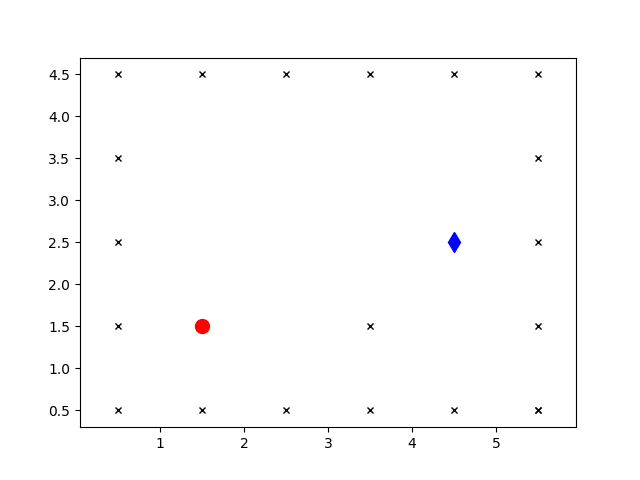
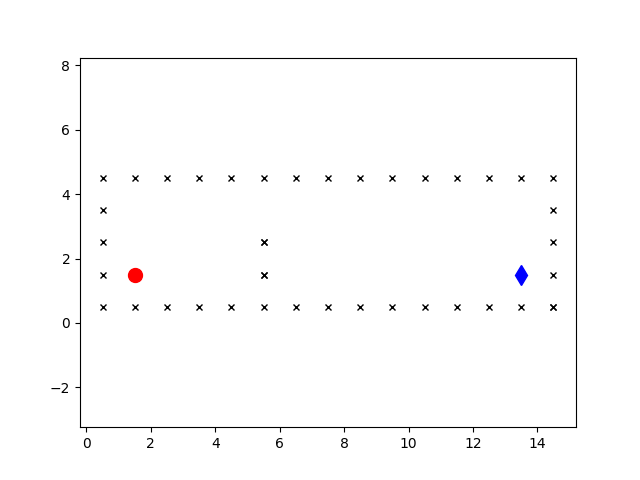
Works very well now. Key factors are the new one-hot input feature and Adam optimizer

diff --git a/main.py b/main.py
@@ -1,18 +1,18 @@
-import numpy as npA
+import numpy as npAAA
 import tensorflow as tf
 from matplotlib import pyplot as plt
 from IPython import embed
 from maze import *
 
 
-n_hidden = 40
-n_episodes = 5000
+n_hidden = 100
+n_episodes = 10000
 e0 = 0.2
 gamma= 0.99
 lr = 0.000001
 
 
-width=6
+width=15
 height = 5
 
 maze = Maze(height=height,
@@ -28,47 +28,51 @@ fig.savefig('fig_maze')
 
 
 # Neural Network
-pos = tf.placeholder(shape=[None,2,1,1],dtype=tf.float32)
+pos = tf.placeholder(shape=[None,width+height],dtype=tf.float32)
 
 # layer = tf.contrib.layers.fully_connected(inputs=pos,
 #                                           num_outputs=30)
-conv_layer = tf.contrib.layers.conv2d(inputs=pos,
-                                      kernel_size=1,
-                                      num_outputs=20,
-                                      activation_fn=tf.sigmoid,
-                                      weights_initializer=tf.random_normal_initializer)
+# conv_layer = tf.contrib.layers.conv2d(inputs=pos,
+#                                       kernel_size=1,
+#                                       num_outputs=20,
+#                                       activation_fn=tf.sigmoid,
+#                                       weights_initializer=tf.random_normal_initializer)
 
-conv_layer = tf.contrib.layers.conv2d(inputs=conv_layer,
-                                      kernel_size=2,
-                                      num_outputs=20,
-                                      activation_fn=tf.sigmoid,
-                                      weights_initializer=tf.random_normal_initializer)
-conv_layer = tf.contrib.layers.conv2d(inputs=conv_layer,
-                                      kernel_size=2,
-                                      num_outputs=50,
-                                      activation_fn=None,                                      
-                                      weights_initializer=tf.random_normal_initializer)
+# conv_layer = tf.contrib.layers.conv2d(inputs=conv_layer,
+#                                       kernel_size=2,
+#                                       num_outputs=20,
+#                                       activation_fn=tf.sigmoid,
+#                                       weights_initializer=tf.random_normal_initializer)
+# conv_layer = tf.contrib.layers.conv2d(inputs=conv_layer,
+#                                       kernel_size=2,
+#                                       num_outputs=50,
+#                                       activation_fn=None,                                      
+#                                       weights_initializer=tf.random_normal_initializer)
 
 
 # conv_layer = tf.contrib.layers.conv2d(inputs=conv_layer,
 #                                       kernel_size=40,
 #                                       num_outputs=n_hidden)
-layer = tf.contrib.layers.fully_connected(inputs=tf.reshape(conv_layer,shape=np.array([-1,2*50])),
+layer = tf.contrib.layers.fully_connected(inputs=pos,
                                           num_outputs=n_hidden)
                                           # weights_initializer=tf.random_normal_initializer)
-layer = tf.contrib.layers.fully_connected(inputs=layer,num_outputs=n_hidden)
+layer = tf.contrib.layers.fully_connected(inputs=layer,
+                                          num_outputs=n_hidden)
+layer = tf.contrib.layers.fully_connected(inputs=layer,
+                                          num_outputs=n_hidden)
+# layer = tf.contrib.layers.fully_connected(inputs=layer,
+#                                           num_outputs=n_hidden)
 Qout = tf.contrib.layers.fully_connected(inputs=layer,
                                           num_outputs=4,
                                           activation_fn=None)
                                           # weights_initializer=tf.random_normal_initializer)
-
 probs = tf.nn.softmax(Qout)
 
 predict = tf.argmax(probs,axis=1)
 
 nextQ = tf.placeholder(shape=[None,4],dtype=tf.float32)
 loss = tf.reduce_sum(tf.square(nextQ-Qout))
-trainer = tf.train.GradientDescentOptimizer(learning_rate=lr)
+trainer = tf.train.AdamOptimizer()
 trainOp = trainer.minimize(loss)
 init = tf.initialize_all_variables()
 
@@ -121,13 +125,15 @@ init = tf.initialize_all_variables()
 # _,loss_value =sess.run([trainOp,loss],feed_dict={inputs: new_xy,nextQ:Qtarget})
 # _,new_allQ = sess.run([predict,Qout],feed_dict={inputs: xy})
 
-inspect_freq = 100
+inspect_freq = n_episodes-1
 
 sess = tf.Session()
 sess.run(init)
 
 jlist = []
 rlist = []
+tmp_rlist= []
+win = 0
 
 xy_memory = []
 qtarget_memory = []
@@ -135,36 +141,47 @@ for i in range(n_episodes):
     maze.restart()
 
 
-    if np.mod(i,100)==0:
-        print('Training')
-        xy_list = np.array(xy_memory).reshape((len(xy_memory),2)).reshape((len(xy_memory),2,1,1))
-        Qtarget_list = np.array(qtarget_memory).reshape((len(qtarget_memory),4))
+    if np.mod(i,200)==0 and i!=0:
+        # print('Training')
+        xy_memory = np.array(xy_memory)
+        qtarget_memory = np.array(qtarget_memory)
+        
+        xy_list = xy_memory.reshape(xy_memory.shape[0],xy_memory.shape[1]*xy_memory.shape[2])
+        Qtarget_list = qtarget_memory.reshape(qtarget_memory.shape[0],qtarget_memory.shape[1]*qtarget_memory.shape[2])
         m=0
-        while m<50:
-            _,loss_value =sess.run([trainOp,loss],feed_dict={pos: xy_list,nextQ:Qtarget_list})
+        while m<400:
+            _,loss_value =sess.run([trainOp,loss],feed_dict={pos: xy_list,
+                                                             nextQ:Qtarget_list})
             m += 1
     
         xy_memory = []
         qtarget_memory = []
 
-    xy = maze.state.copy().reshape(1,2)# *[1/width,1/height]
-    xy = np.array([xy[0][0],xy[0][1]]).reshape(1,2,1,1)
+    xy = maze.state.copy().reshape(1,2)
+    xy_one_hot = np.zeros(shape=(1,height+width))
+    xy_one_hot[0][xy[0][0]] = 1
+    xy_one_hot[0][xy[0][1]+width] = 1
+
 
     reward = 0
     j = 0
-    print('Episode %i/%i' %(i,n_episodes))
+    if np.mod(i,20)==0:
+        print('Episode %i/%i\t mean reward = %4.4f\t wins: %i' %(i,n_episodes,np.mean(tmp_rlist),win),end='\r')
+        tmp_rlist = []
     while j<99:
 
         # Find next action for current state
-        action,allQ,prob_dist,conv = sess.run([predict,Qout,probs,conv_layer],feed_dict={pos: xy})
+        action,allQ,prob_dist = sess.run([predict,Qout,probs],feed_dict={pos: xy_one_hot})
 
-        # e = (e0-1)/n_episodes * i+1
+
 
         # if np.mod(i,inspect_freq)!=0:
         action = np.random.choice(range(4),p=prob_dist[0])
         # #     # With probability e, take a random action
+
+        e = (-e0)/n_episodes * i+e0        
         if np.mod(i,inspect_freq)!=0:        
-            if np.random.rand(1) < e0:
+            if np.random.rand(1) < e:
                 # print('Random!')
                 action = np.random.randint(4)
 
@@ -174,7 +191,12 @@ for i in range(n_episodes):
 
         # Get new position
         new_xy = maze.state.copy().reshape(1,2)# *[1/width,1/height]
-        new_xy = np.array([new_xy[0][0],new_xy[0][1]]).reshape(1,2,1,1)
+        new_xy_one_hot = np.zeros(shape=(1,height+width))
+        new_xy_one_hot[0][new_xy[0][0]] = 1
+        new_xy_one_hot[0][new_xy[0][1]+width] = 1
+
+
+
 
         # Get reward
         r,t = maze.get_positional_reward()
@@ -182,6 +204,9 @@ for i in range(n_episodes):
         # Add step penalty
         r += maze.step_penalty
 
+        if r > 50:
+            win +=1
+        
         # Give reward for going right
         if action == 2:
             r += 0
@@ -189,7 +214,7 @@ for i in range(n_episodes):
         reward += r
 
         # Get Q for new position
-        Qnew = sess.run(Qout,feed_dict={pos: new_xy})
+        Qnew = sess.run(Qout,feed_dict={pos: new_xy_one_hot})
         Qtarget = allQ.copy()
 
         if not t:
@@ -197,15 +222,19 @@ for i in range(n_episodes):
         else:
             Qtarget[0,action] = r
 
-        xy_memory.append(xy)
+        # _,loss_value =sess.run([trainOp,loss],feed_dict={pos: xy_one_hot.reshape(1,width*height),nextQ:Qtarget})
+            
+        xy_memory.append(xy_one_hot)
         qtarget_memory.append(Qtarget)
 
         xy = new_xy.copy()
+        xy_one_hot = np.zeros(shape=(1,height+width))
+        xy_one_hot[0][xy[0][0]] = 1
+        xy_one_hot[0][xy[0][1]+width] = 1
 
         if np.mod(i,inspect_freq)==0:
             print('reward = %4.4f' %(reward))
             print(xy)
-            print(conv)
             print(allQ)
             print(prob_dist)
             maze.draw_maze(ax)
@@ -213,10 +242,13 @@ for i in range(n_episodes):
             input('Press enter to continue...')
 
 
+
+            
         # If termination is True, break
         if t:
             jlist.append(j)
             rlist.append(reward)
+            tmp_rlist.append(reward)
             break
 
 

diff --git a/maze.py b/maze.py
@@ -20,11 +20,11 @@ class Maze():
 
         self.state = np.array(self.start_state)
         # self.target = np.array([self._width-2,self._height-2]) 
-        self.target = np.array([self._width-2,2])       
+        self.target = np.array([self._width-2,1])       
         self.memory = []
-        self.border_penalty = -40
-        self.step_penalty = -1
-        self.target_reward = 100
+        self.border_penalty = -10
+        self.step_penalty = -0.5
+        self.target_reward = 1000
         self.score = 0
 
 
@@ -50,8 +50,17 @@ class Maze():
                 if y == 0 and x > 0 and x < w:
                     self.border.append([x,y])
 
-                if y == 1 and x == int(self._width/2):
+                if y == 1 and x == 5:
                     self.border.append([x,y])
+
+                if y == 2 and x == 5:
+                    self.border.append([x,y])
+
+                if y == 1 and x == 5:
+                    self.border.append([x,y])
+
+                if y == 2 and x == 5:
+                    self.border.append([x,y])                                        
 
 
     def restart(self):
